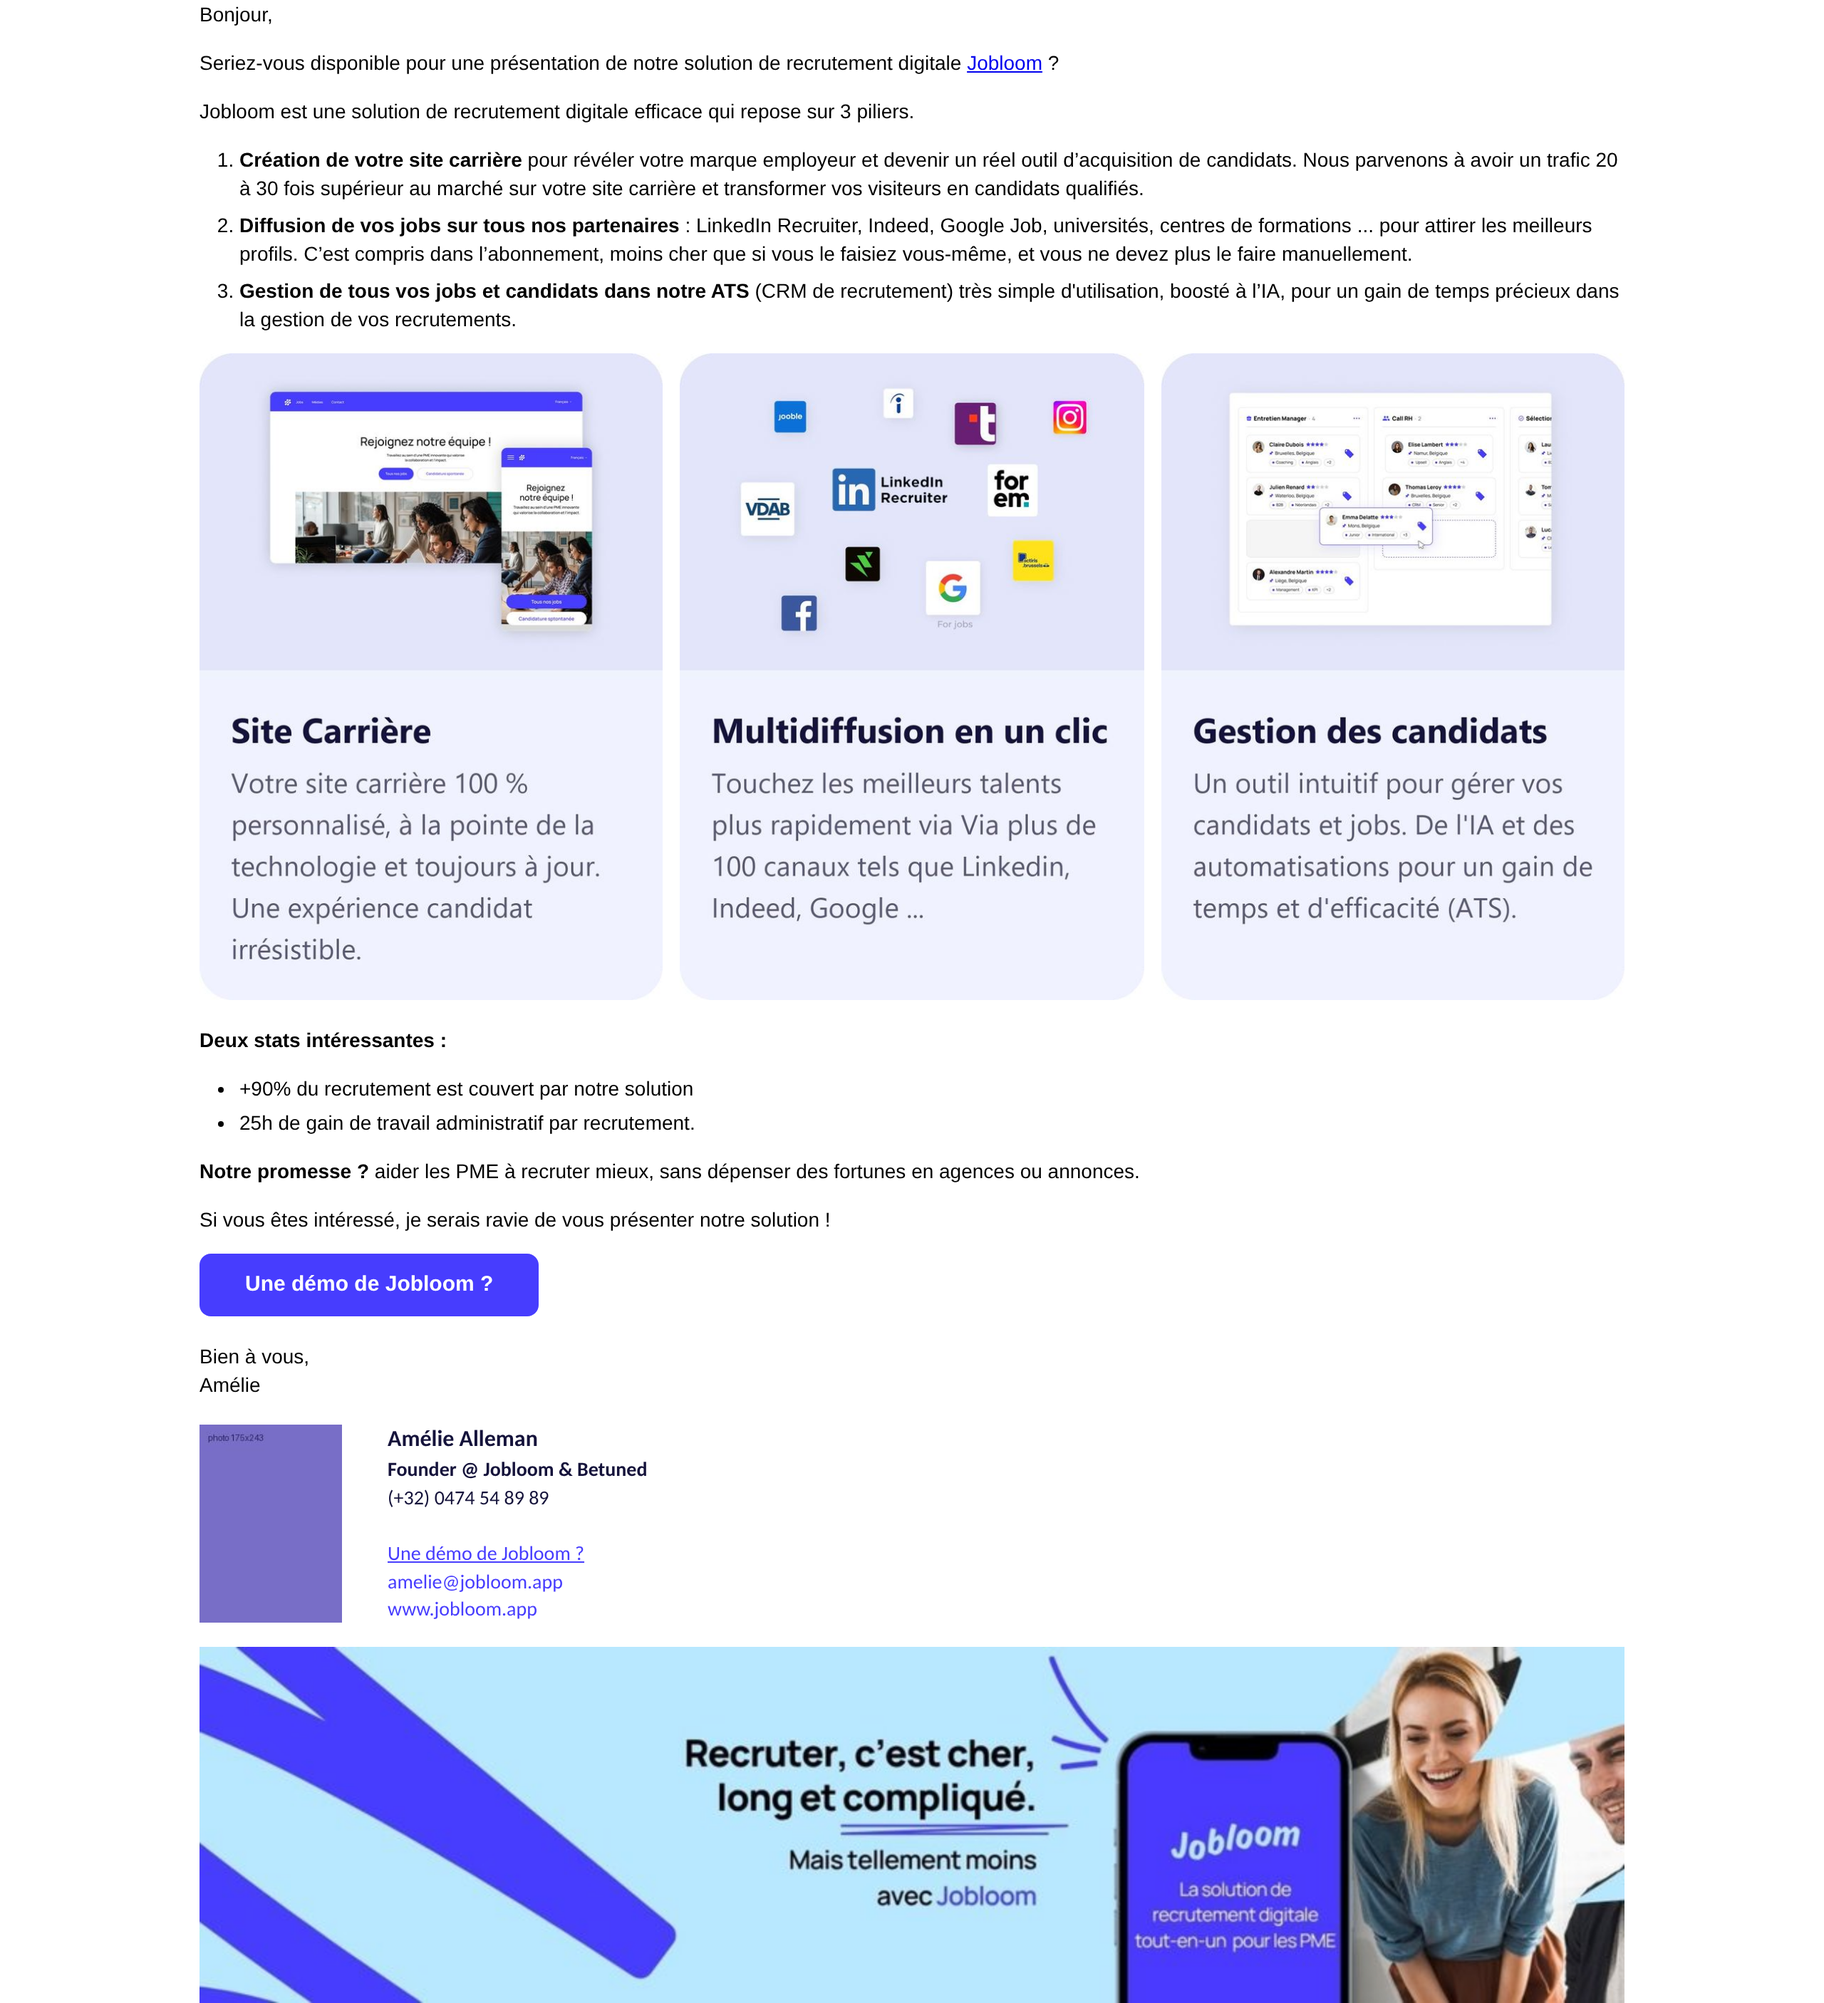
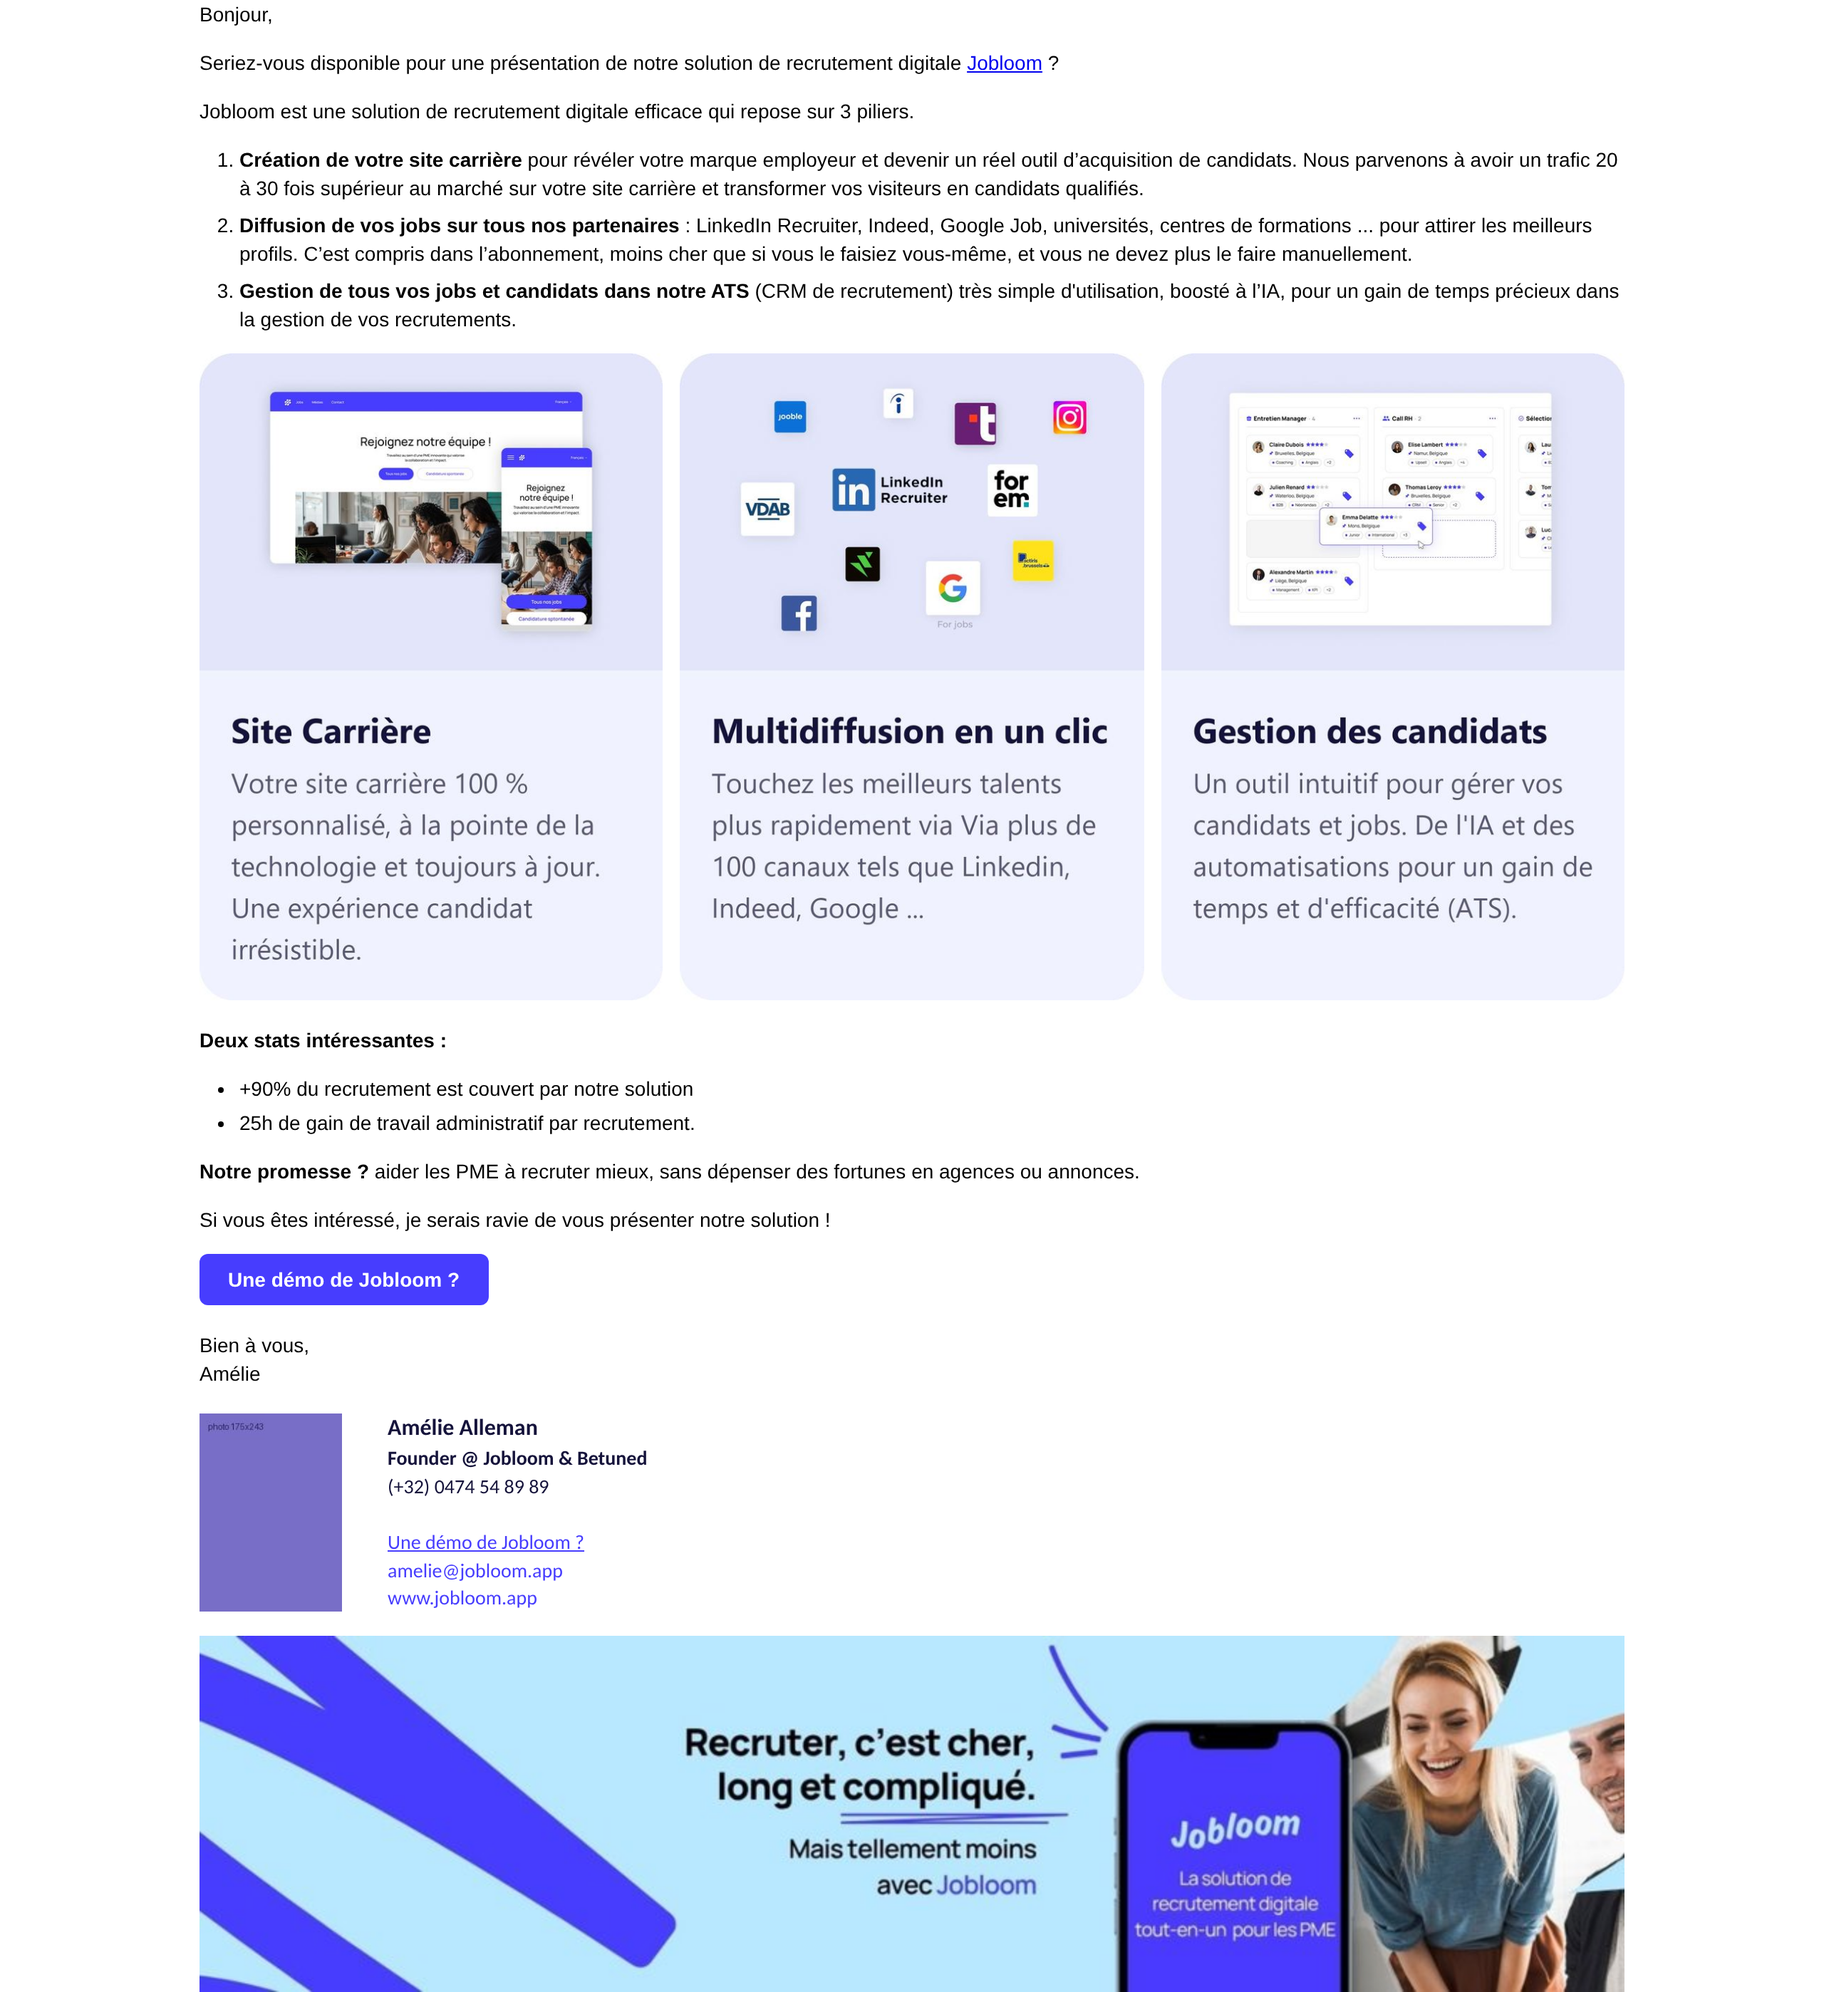
Email Amélie : bouton démo plus discret
Claude-Session: https://claude.ai/code/session_01XTeiUwKp5X2MxE8FSKHjU9

diff --git a/email-livrable/email_1st_Amelie_final.html b/email-livrable/email_1st_Amelie_final.html
@@ -49,12 +49,12 @@ li{margin-left:0 !important;}</style>
 <p style="margin:0 0 14px 0">Si vous êtes intéressé, je serais ravie de vous présenter notre solution&nbsp;!</p>
 <!--[if mso]>
 <table role="presentation" cellpadding="0" cellspacing="0" border="0"><tr><td style="padding:0 0 18px 0">
-<v:roundrect xmlns:v="urn:schemas-microsoft-com:vml" xmlns:w="urn:schemas-microsoft-com:office:word" href="https://calendly.com/amelie-betuned" style="height:44px;v-text-anchor:middle;width:260px" arcsize="20%" stroke="f" fillcolor="#473DFE"><w:anchorlock/><center style="color:#FFFFFF;font-family:Arial,Helvetica,sans-serif;font-size:15px;font-weight:bold">Une démo de Jobloom ?</center></v:roundrect>
+<v:roundrect xmlns:v="urn:schemas-microsoft-com:vml" xmlns:w="urn:schemas-microsoft-com:office:word" href="https://calendly.com/amelie-betuned" style="height:36px;v-text-anchor:middle;width:200px" arcsize="20%" stroke="f" fillcolor="#473DFE"><w:anchorlock/><center style="color:#FFFFFF;font-family:Arial,Helvetica,sans-serif;font-size:14px;font-weight:bold">Une démo de Jobloom ?</center></v:roundrect>
 </td></tr></table>
 <![endif]-->
 <!--[if !mso]><!-->
-<table role="presentation" cellpadding="0" cellspacing="0" border="0" style="border-collapse:separate;margin:0 0 18px 0"><tr><td align="center" bgcolor="#473DFE" style="background:#473DFE;border-radius:8px">
-<a href="https://calendly.com/amelie-betuned" style="display:inline-block;padding:13px 32px;font-family:Arial,Helvetica,sans-serif;font-size:15px;line-height:18px;font-weight:bold;color:#FFFFFF;text-decoration:none;border-radius:8px">Une démo de Jobloom ?</a>
+<table role="presentation" cellpadding="0" cellspacing="0" border="0" style="border-collapse:separate;margin:0 0 18px 0"><tr><td align="center" bgcolor="#473DFE" style="background:#473DFE;border-radius:6px">
+<a href="https://calendly.com/amelie-betuned" style="display:inline-block;padding:9px 20px;font-family:Arial,Helvetica,sans-serif;font-size:14px;line-height:18px;font-weight:bold;color:#FFFFFF;text-decoration:none;border-radius:6px">Une démo de Jobloom ?</a>
 </td></tr></table>
 <!--<![endif]-->
 <p style="margin:0 0 18px 0">Bien à vous,<br>Amélie</p>
